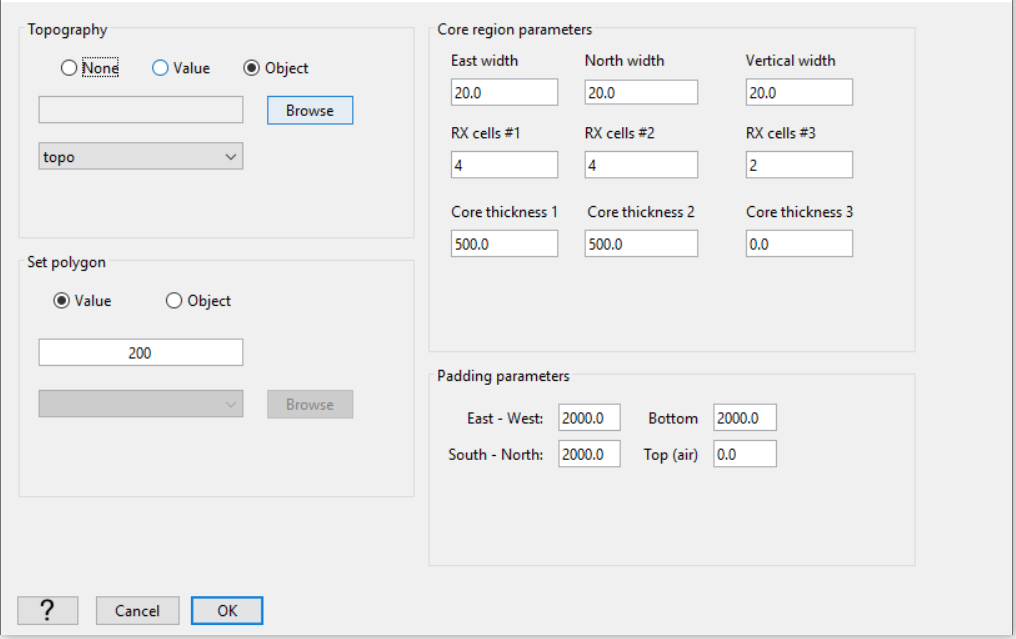
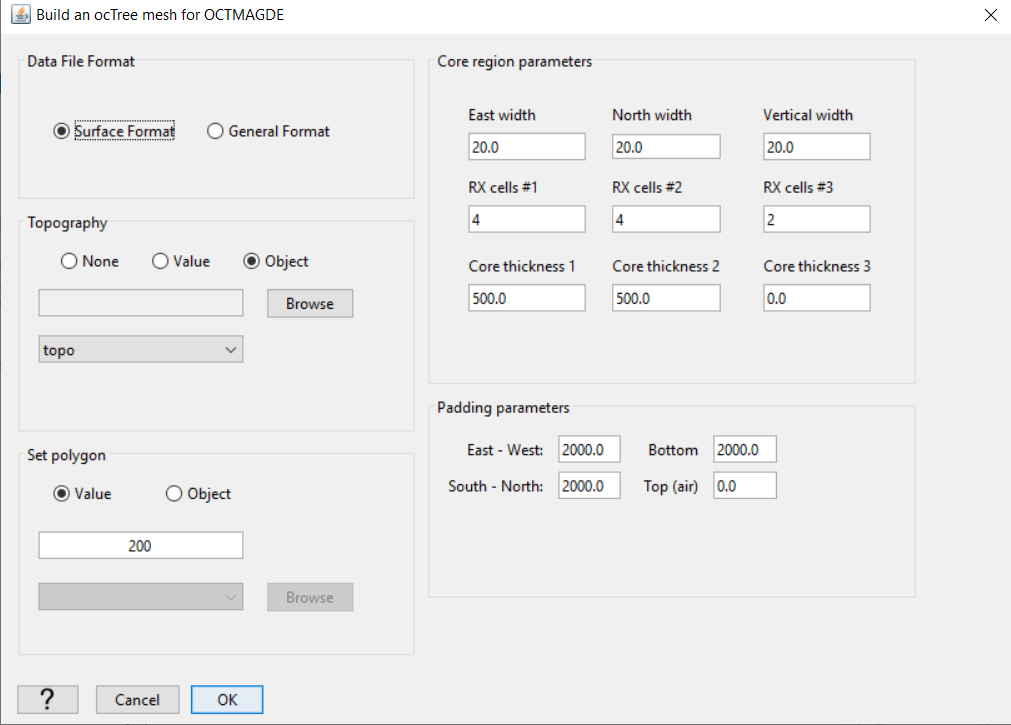
update for dcip octree improvements

diff --git a/content/comprehensive_workflow/dcip/7_octree.rst b/content/comprehensive_workflow/dcip/7_octree.rst
@@ -9,22 +9,12 @@ Here we provide a basic approach for mesh design when inverting DC/IP data. Mesh
 
 	- :ref:`create OcTree mesh with DC/IP utilities <createDCIPoctreeMesh>`
 
-**DC data only:** Once you have created the object, complete the following steps:
+Once you have created the object, complete the following steps:
 
 	1) Set the data object corresponding to the survey
 	2) Define the mesh using *Edit Options*
 	3) Run the utility
-	4) Load results
-
-**DC and IP data:** In the case of real topography, we will need to project both DC and IP data to the discretized surface and load the data files into GIFtools. The following is a trick for accomplishing this and create the octree mesh in a clean fashion:
-
-	1) Set the data object corresponding to the survey as the IP data object
-	2) Define the mesh using *Edit Options*
-	3) Run the utility (which creates a project IP data file)
-	4) Reset the data object corresponding to the survey as the DC data object
-	5) Run the utility again (which creates a project DC data file)
-	6) Load results (which will load everything but the projected IP data file)
-	7) Use *import* drop-down menu to import the projected IP data file
+	4) Load results. The files loaded will include a data file *data_Z.txt* wherein the surface electrodes have been projected to the discrete surface topograpy.
 
 
 **For the tutorial data**, the parameters set in *Edit Options* are shown below. For definitions of the parameters, consult the `DCIP octree manual <https://dcipoctree.readthedocs.io/en/latest/content/inputfiles/createOcTree.html>`__ .
@@ -34,13 +24,14 @@ Here we provide a basic approach for mesh design when inverting DC/IP data. Mesh
     :align: center
     :width: 500
 
-    Parameters used to define the mesh for the field dataset using E3DMT v2 mesh utility.
+    Parameters used to define the mesh for the field dataset using DCIP OcTree mesh utility.
 
 
 
 Comments on Choosing Parameters
 -------------------------------
 
+**File format:** Since all electrodes are located on the Earth's surface (i.e. no borehole), we use the *surface* option to project all electrodes to the disrete surface topograpy. If we had borehole data, we would use the general file format option.
 
 **Minimum cell size:** The minimum cell size is determined by the minimum electrode spacing. To have sufficient accuracy, you must have at least 2.5 to 4 cells between each electrode.
 
@@ -51,12 +42,6 @@ Comments on Choosing Parameters
 **Number of cells around Rx:** The number of fine mesh cells near receivers must be sufficiently large to model the electric potentials near electrodes accurately. It is important to set *RX cells #1* to be between 4 and 8.
 
 **Make polygon:** This parameter controls the horizontal extent of the core mesh region. In practice, the distance between any electrode and the horizontal edges of the core mesh region should be 2-3 times larger than the smallest electrode spacing.
-
-
-Important Comments on Topography
---------------------------------
-
-When including real topography (not flat), the discretized surface will not match the true surface of the Earth. DCIP octree utilities remedy this issue by creating an observed data file where the electrode locations have be projected onto the surface of the **discretized** Earth. When loading the output from the DCIP octree utility, GIFtools will load this projected data file. You must use this file when running the inversion.
 
 
 

diff --git a/content/objectFunctionality/fortran/editOptions.rst b/content/objectFunctionality/fortran/editOptions.rst
@@ -14,6 +14,23 @@ To change the options of the utility, click on the utility item, select the menu
     :width: 400
 
 
+
+.. _utilEditOptions_DCIP:
+
+DCIP OcTree Mesh Utility
+------------------------
+
+
+- Input Options (`related documentation for DCIP OcTree <https://dcipoctree.readthedocs.io/en/latest/content/inputfiles/createOcTree.html>`_)
+
+    .. figure:: ../../../images/utilityDCIPMeshEditOption.png
+        :align: center
+        :width: 600
+
+.. important:: If **surface** is selected, all electrodes will be projected to the discrete surface topography. If **general** is selected, all electrodes above the discrete surface topography are projected and all electrodes below the discrete surface are left in their original locations. The latter option is mean for datasets containing borehole data.
+
+
+
 .. _utilEditOptions_E3DMT:
 
 E3DMT Mesh Utility
@@ -106,6 +123,18 @@ E3D_ver2_Tiled Mesh Utility
 
 
 
+.. _utilEditOptions_SurfaceElectrodes:
+
+Project Electrodes to Discrete Topography
+-----------------------------------------
+
+
+.. figure:: ../../../images/utilitySurfaceElectrodes.PNG
+    :align: center
+    :width: 400
+
+
+
 .. _utilEditOptions_DCsensitivity:
 
 DC/IP Octree Sensitivity Utility
@@ -121,9 +150,11 @@ Set parameters to compute approximate senstivity weights model for DC or IP octr
 
 **Input Options** (`thorough description of all parameters provided in DCIP octree documentation <https://dcipoctree.readthedocs.io/en/latest/content/inputfiles/sensFile.html>`_)
 
+    - If **surface** is selected, all electrodes will be projected to the discrete surface topography. If **general** is selected, all electrodes above the discrete surface topography are projected and all electrodes below the discrete surface are left in their original locations. The latter option is mean for datasets containing borehole data.
+
     - *Number of samples:* This is the number of iterations for approximating the diagonals of :math:`J^T J` with Hutchinson's or probing approach. A value of 10 is reasonable.
 
-    - *Computation method:* Choosing the random vectors for applying Hutchinson's approach or probing method.
+    - *Computation method:* Choose one of the approximate or analytic methods for computing the sensitivities. We suggest using *average sensitivities* or *RMS sensitivities* because these approaches are analytic and do not take much longer than any of the approximate sensitivity methods.
 
     - *Truncation Factor:* We must apply a truncation factor due to the large dynamic range of the sensitivities. A value between 0.01 and 0.2 is good.
 

diff --git a/content/comprehensive_workflow/dcip/7b_projection.rst b/content/comprehensive_workflow/dcip/7b_projection.rst
@@ -1,0 +1,32 @@
+.. _comprehensive_workflow_dcip_7b:
+
+.. include:: <isonum.txt>
+
+
+Project Electrodes to Discrete Surface
+======================================
+
+When :ref:`creating an OcTree mesh <comprehensive_workflow_dcip_7>`, the output included at data file **data_Z.txt** wherein all surface electrodes have already been projected to the discrete surface topography. So if you are only working with DC data, and you used the DC data (with data and uncertainties) to create the mesh, simply use **data_Z.txt** as the observations file in your DC inversion.
+
+**However** if you have DC and IP data, you still need to project the IP electrodes to the discrete surface topography. Here we provide the standard approach for creating a new DC/IP data object where the surface electrodes have been projected to the discrete surface topograpy. For the tutorial, we apply the utility to the IP data. To create the utility:
+
+    - :ref:`create surface electrodes utilities <createElectrodes>`
+
+Once you have created the object, complete the following steps:
+
+    1) Define the data and other parameters using *Edit Options*
+    2) Run the utility
+    3) Load results
+
+
+**For the tutorial data**, the parameters set in *Edit Options* are shown below. Since we do not have borehole data, we used the **surface** format. For definitions of the parameters, consult the `DCIP octree manual <https://dcipoctree.readthedocs.io/en/latest/content/inputfiles/surfaceElectrodes.html>`__ .
+
+
+.. figure:: images/surface_electrodes.png
+    :align: center
+    :width: 350
+
+    Parameters used when running the utility.
+
+
+

diff --git a/content/comprehensive_workflow/dcip/8_dc_prep.rst b/content/comprehensive_workflow/dcip/8_dc_prep.rst
@@ -49,6 +49,9 @@ To create interface weights:
 Sensitivity Weighting for DC Inversion
 --------------------------------------
 
+.. important:: Since the initial creation of the sensitivity weights utility, analytic methods for computing the *average sensitivities* and *RMS sensitivities* have been added. In practice, we suggest using these methods over the approximate methods.
+
+
 Sensitivity weighting is another approach for reducing near-surface artifacts at the location of electrodes. For this approach, we approximate the root mean squared sensitivities for a given conductivity model and use them to construct cell weights. The cell weights counteract the inversion's natural inclination to place conductive structures at the locations of highest sensitivity; i.e. at the electrode locations.
 
 This approach is better suited when the topography is rough; compared to interface weighting. The user should keep several things in mind when using sensitivity weights. 1) For the DC octree code, the sensitivities are approximated with Hutchinson's method because it is too time-consuming to compute the true sensitivities. The user will need to apply a smoothing factor to reduce 'pixelation' in the cell weights model. If the sensitivity weighting is too large, the inversion may place artifacts in the space between surface lines. Generally, we suggest setting the *number of samples* to be 5-20, using a *truncation factor* of 0.05-0.2 and to *smooth* 1-4 times.

diff --git a/content/comprehensive_workflow/dcip/11_ip_prep.rst b/content/comprehensive_workflow/dcip/11_ip_prep.rst
@@ -48,6 +48,8 @@ To create interface weights:
 Sensitivity Weighting for IP Inversion
 --------------------------------------
 
+.. important:: Since the initial creation of the sensitivity weights utility, analytic methods for computing the *average sensitivities* and *RMS sensitivities* have been added. In practice, we suggest using these methods over the approximate methods.
+
 Sensitivity weighting is another approach for reducing near-surface artifacts at the location of electrodes. For this approach, we approximate the root mean squared sensitivities for a given model and use them to construct cell weights. The cell weights counteract the inversion's natural inclination to place chargeable structures at the locations of highest sensitivity; i.e. at the electrode locations.
 
 This approach is better suited when the topography is rough; compared to interface weighting. The user should keep several things in mind when using sensitivity weights. 1) For the IP octree code, the sensitivities are approximated with Hutchinson's method because it is too time-consuming to compute the true sensitivities. The user will need to apply a smoothing factor to reduce 'pixelation' in the cell weights model. If the sensitivity weighting is too large, the inversion may place artifacts in the space between surface lines. Generally, we suggest setting the *number of samples* to be 5-20, using a *truncation factor* of 0.05-0.2 and to *smooth* 1-4 times.

diff --git a/content/basicFunctionality/create/fortran/octreeUtilities.rst b/content/basicFunctionality/create/fortran/octreeUtilities.rst
@@ -3,7 +3,7 @@
 
 .. include:: <isonum.txt>
 
-Octree utilities
+Octree Utilities
 ================
 
 .. figure:: ../../../../images/createOctreeUtility.png
@@ -65,25 +65,3 @@ Interaction with the Fortran utility program ``octree_cell_centre`` can be done 
 
 **Create** |rarr| **Fortran utility program** |rarr| **Octree utilities** |rarr| **Export cell centre locations**
 
-
-.. _createElectrodes:
-
-Create surface electrodes (DC/IP)
----------------------------------
-
-Interaction with the Fortran utility program ``surface_electrodes`` can be done by creating an *surfaceElectrodes* item. This item will interact with the utility program to place DC/IP electrodes on the discretized topography. To create, use the menu structure:
-
-
-**Create** |rarr| **Fortran utility program** |rarr| **Octree utilities** |rarr| **Create surface electrodes (DC/IP)**
-
-
-
-.. _createDCsensitivities:
-
-Create sensitivity weights for DC/IP octree
--------------------------------------------
-
-Interaction with the Fortran utility program ``dcsensitivity`` can be done by creating an *sensitivityWeightsDCIP* item. This item will interact with the utility program to generate a sensisitivity weights model for DC or IP octree inversions. To create, use the menu structure:
-
-
-**Create** |rarr| **Fortran utility program** |rarr| **Octree utilities** |rarr| **Create sensitivity weights (DC/IP)**

diff --git a/content/basicFunctionality/create/fortran/dcipUtilities.rst b/content/basicFunctionality/create/fortran/dcipUtilities.rst
@@ -1,0 +1,35 @@
+.. _createDCIPOctreeUtilities:
+
+
+.. include:: <isonum.txt>
+
+DCIP Octree Code Utilities
+==========================
+
+.. figure:: ../../../../images/createDCIPOctreeUtility.png
+    :align: center
+    :figwidth: 100%
+
+
+
+.. _createElectrodes:
+
+Create surface electrodes (DC/IP)
+---------------------------------
+
+Interaction with the Fortran utility program ``surface_electrodes`` can be done by creating an *surfaceElectrodes* item. This item will interact with the utility program to place DC/IP electrodes on the discretized topography. To create, use the menu structure:
+
+
+**Create** |rarr| **Fortran utility program** |rarr| **DCIP Octree utilities** |rarr| **Create surface electrodes (DC/IP)**
+
+
+
+.. _createDCsensitivities:
+
+Create sensitivity weights for DC/IP octree
+-------------------------------------------
+
+Interaction with the Fortran utility program ``dcsensitivity`` can be done by creating an *sensitivityWeightsDCIP* item. This item will interact with the utility program to generate a sensisitivity weights model for DC or IP octree inversions. To create, use the menu structure:
+
+
+**Create** |rarr| **Fortran utility program** |rarr| **DCIP Octree utilities** |rarr| **Create sensitivity weights (DC/IP)**

diff --git a/content/comprehensive_workflow/dcip/2_load_data.rst b/content/comprehensive_workflow/dcip/2_load_data.rst
@@ -29,7 +29,7 @@ Here, we import the DC, IP and topography data. **The tutorial data are in 3D UB
     - :ref:`Import topography data (XYZ format) <importTopo>`. The data file is named *topo.xyz*.
     - :ref:`Import 3D DC data <importDCIP3Ddata>` as an observed data format file. The data file is named *DCdata.dat*.
     - :ref:`Import 3D IP data <importDCIP3Ddata>` as 'any format'. The data file is named *IPdata.dat*.
-    - If the elevations of the electrodes are not defined, you can :ref:`apply topography <objectDCIPApplyTopo>`. This is not necessary if the surface topography is flat.
+    - If the elevations of the electrodes are not defined in the data file, we strongly advise that you :ref:`apply topography <objectDCIPApplyTopo>`.
 
 
 **Data in XYZ or CSV format** :ref:`can be imported <importDCIP3Ddata>` together or separately into GIFtools. In this case, GIFtools will require the user to select the columns corresponding to electrode positions and data. If DC and IP data are loaded into a single data object, the user can:

diff --git a/content/objectFunctionality/inversion/editOptions/dcip.rst b/content/objectFunctionality/inversion/editOptions/dcip.rst
@@ -263,6 +263,12 @@ Basic
 -----
 
 
+    - **Data file format:**
+
+        - *Surface:* All electrodes are projected to the discrete surface topography. This setting uses the surface file format and ignores the elevation columns for the electrodes.
+
+        - *General:* Elevation columns for the electrodes must be set. Here, any electrodes lying above the discrete surface topography are projected downward while all other electrodes are left in their original positions. This necessary when borehole data are included.
+
     - **Observed data:** The user selects a *DC3Ddata* or *IP3Ddata* object from the drop-down list.
 
     - **Mesh:** OcTree mesh on which a conductivity/chargeability model is recovered. 

diff --git a/content/comprehensive_workflow/dcip/index.rst b/content/comprehensive_workflow/dcip/index.rst
@@ -35,6 +35,7 @@ Tutorial Sections
     - Analyze 2D DC and IP inversion results <5_local_2D_results>
     - Batch 2D DC and IP inversion <6_batch_2D>
     - OcTree mesh design <7_octree>
+    - Project electrodes to discrete surface <7b_projection>
     - DC OcTree inversion: creating weights and reference models <8_dc_prep>
     - DC OcTree inversion: setting up, running and examining results <9_dc_inv_basic>
     - DC OcTree inversion using sensitivity weights and reference models <10_dc_inv_compare>

diff --git a/content/basicFunctionality/create/fortran/fortran_index.rst b/content/basicFunctionality/create/fortran/fortran_index.rst
@@ -3,11 +3,8 @@
 
 .. include:: <isonum.txt>
 
-Fortran utility programs
+Fortran Utility Programs
 ========================
-
-RECIPE PENDING
-
 
     .. toctree::
         :maxdepth: 2
@@ -15,6 +12,7 @@ RECIPE PENDING
         createOctree
         interpolateModels
         octreeUtilities
+        dcipUtilities
 
 
 
